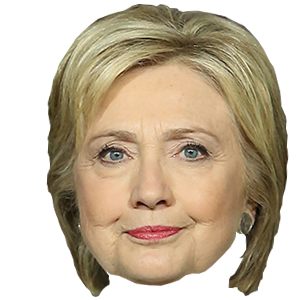
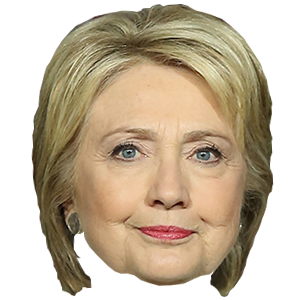
adding enemy heads to bodies

diff --git a/game/ontherange.js b/game/ontherange.js
@@ -308,46 +308,72 @@ OTR.commonMethods = {
     enemy.contraint += plusOrMinus * 100;
     enemy.fireDelay = 0;
     enemy.fireRate = 200 + (plusOrMinus * 10);
-    enemy.obj = new OTR.Sprite(
-      OTR.resources[enemy.body].texture
-    );
 
-	  enemy.obj.width = 2640;
-	  enemy.obj.height = 500;
+	  var enemyBody = new OTR.Sprite(
+		  OTR.resources[enemy.body].texture
+	  );
+	  var enemyHead = new OTR.Sprite(
+		  OTR.resources[enemy.head].texture
+	  );
+	  enemyHead.position.set(15, -210);
+	  var enemyFull = new OTR.Container();
+
+	  enemyBody.width = 2640;
+	  enemyBody.height = 500;
+
+	  var headPositions = [
+		  { x: 15, y: -210 },
+		  { x: 20, y: -190 },
+		  { x: 20, y: -195 },
+		  { x: 15, y: -220 },
+		  { x: 15, y: -210 },
+		  { x: 25, y: -195 },
+		  { x: 20, y: -197 },
+		  { x: 20, y: -225 }
+	  ];
 
 	  for(var i = 0; i < 8; i++){
 		  var frame = new OTR.Texture(OTR.BaseTexture.fromImage(enemy.body));
 		  frame.setFrame(new OTR.Rectangle( (i *330), 0, 330, 500));
 		  if(i === 0){
-			  enemy.obj = new OTR.Sprite(frame);
-			  enemy.obj.animation = {};
-			  enemy.obj.animation.frameNumber = 8;
-			  enemy.obj.animation.frames = [];
-			  enemy.obj.animation.frameCounter = 0;
+			  enemyBody = new OTR.Sprite(frame);
+			  enemyBody.animation = {};
+			  enemyBody.animation.frameNumber = 8;
+			  enemyBody.animation.frames = [];
+			  enemyBody.animation.frameCounter = 0;
 		  };
-		  enemy.obj.animation.frames.push(frame);
+		  enemyBody.animation.frames.push(frame);
 	  };
-	  enemy.obj.animation.looper = setInterval(function(){
-		  enemy.obj.setTexture(enemy.obj.animation.frames[enemy.obj.animation.frameCounter]);
-		  enemy.obj.animation.frameCounter++;
-		  if(enemy.obj.animation.frameCounter === enemy.obj.animation.frames.length){
-			  enemy.obj.animation.frameCounter = 0;
+	  enemyBody.animation.looper = setInterval(function(){
+		  var frameCounter = enemyBody.animation.frameCounter;
+		  enemyBody.setTexture(enemyBody.animation.frames[enemyBody.animation.frameCounter]);
+		  enemyBody.animation.frameCounter++;
+		  if(enemyBody.animation.frameCounter === enemyBody.animation.frames.length){
+			  enemyBody.animation.frameCounter = 0;
 		  };
+		  enemyHead.position.set(headPositions[frameCounter].x, headPositions[frameCounter].y);
 	  }, 100);
 
-    var posY = Math.floor(Math.random() * 100) + 100;
-    //enemy.obj.width = 330 * 0.5;
-    //enemy.obj.height = 500 * 0.5;
-    enemy.obj.x = Math.round(Math.random()) * (OTR.canvasSize.width - enemy.obj.width);
-    enemy.initialX = enemy.obj.x;
-    enemy.obj.y = posY;
-    enemy.obj.z = posY;
-    enemy.obj.vx = 0;
-    enemy.obj.vy = 0;
+	  enemyFull.addChild(enemyBody);
+	  enemyFull.addChild(enemyHead);
+	  enemyFull.scale.x = 0.5;
+	  enemyFull.scale.y = 0.5;
 
-    OTR.characters.enemies.push(enemy);
-    OTR.stage.addChild(enemy.obj);
-    OTR.stage.children.sort(OTR.commonMethods.utils.depthCompare);
+    var posY = Math.floor(Math.random() * 100) + 100;
+    //enemyFull.width = 330 * 0.5;
+    //enemyFull.height = 500 * 0.5;
+	  enemyFull.x = Math.round(Math.random()) * (OTR.canvasSize.width - enemyFull.width);
+	  enemyFull.initialX = enemyFull.x;
+	  enemyFull.y = posY;
+	  enemyFull.z = posY;
+	  enemyFull.vx = 0;
+	  enemyFull.vy = 0;
+
+    //OTR.characters.enemies.push(enemy);
+    //OTR.stage.addChild(enemy.obj);
+    //OTR.stage.children.sort(OTR.commonMethods.utils.depthCompare);*/
+
+	  OTR.stage.addChild(enemyFull);
 
   },
 
